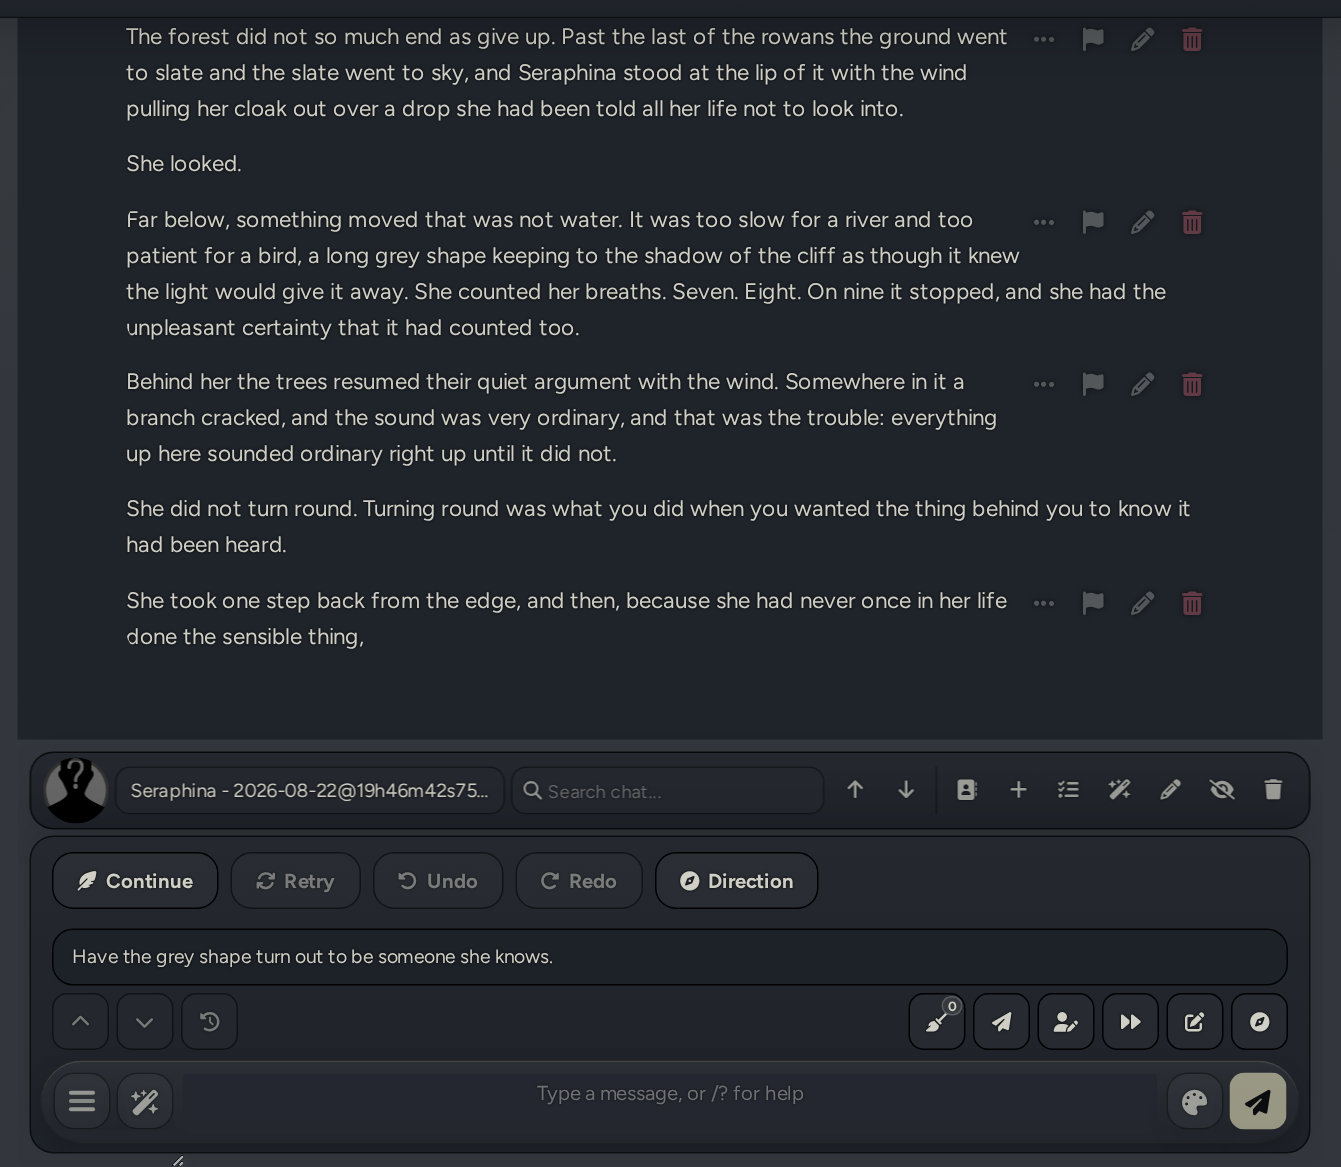
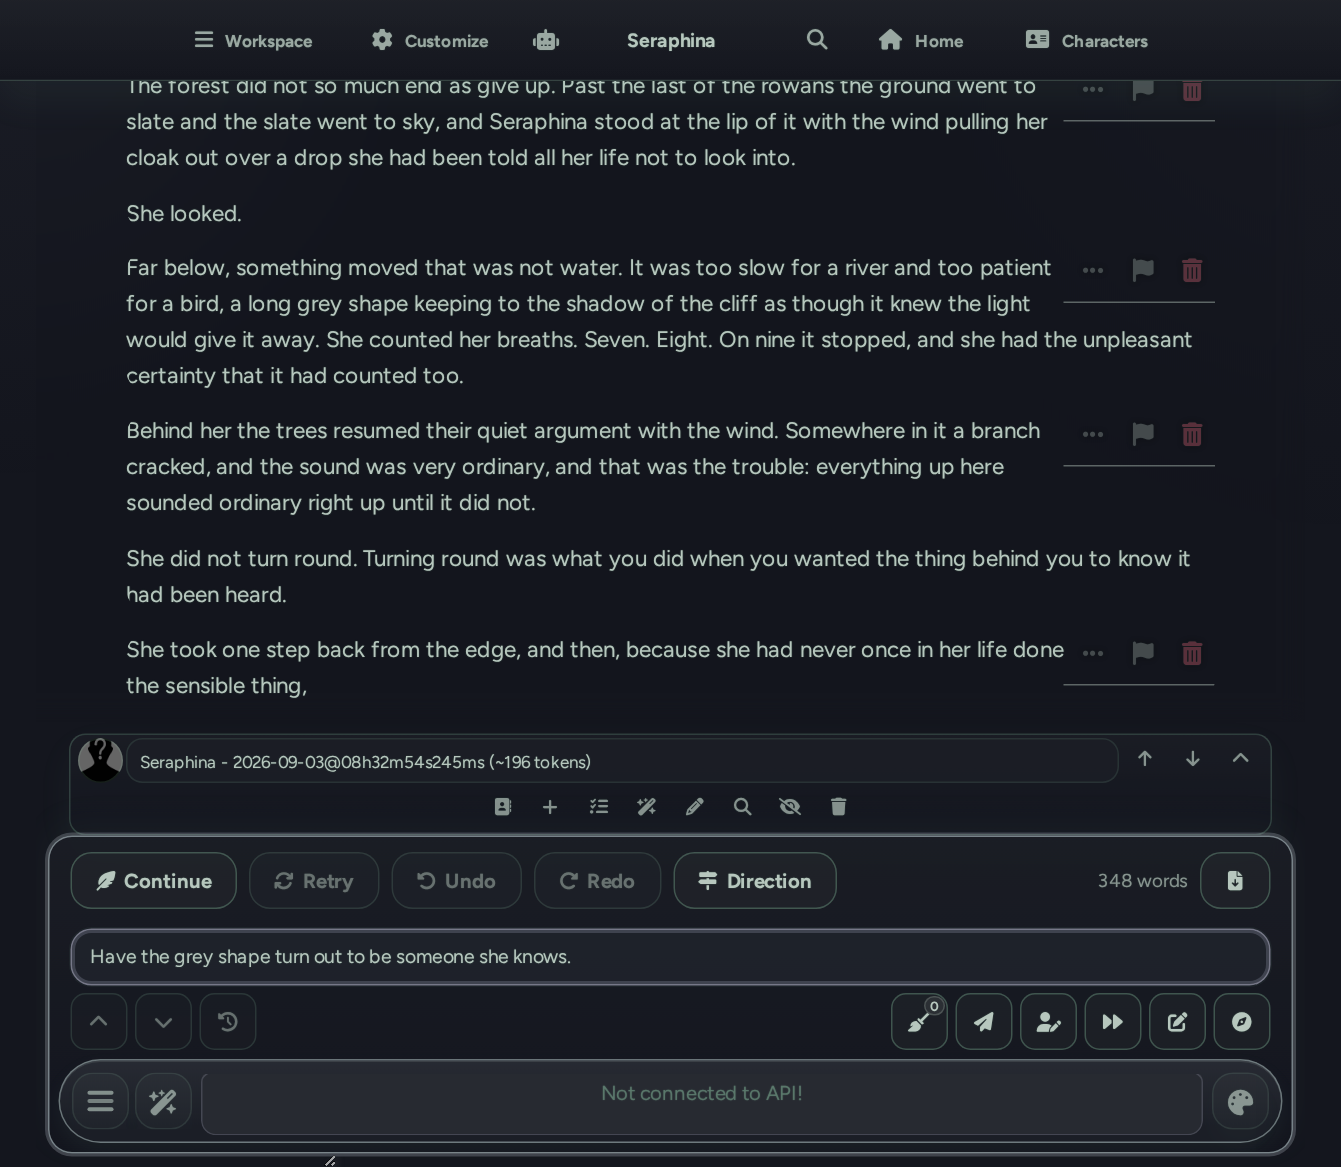
Story Mode 0.2.1: clearer bar, one-row phone bar, grouped settings
Direction gets a signpost icon (the host already uses a compass one row
below) and stays tinted while a direction is typed with the box closed.
Export is icon-only; on phones the word count and Export leave the bar
so it stays one row, and the other buttons shrink to icons below 44em.

The host's pencil is hidden in Story Mode because tapping a paragraph
already edits it. With "Expand message actions" on, the icon row sits on
its own line above each paragraph instead of swallowing the first one.
The rewrite row no longer overlaps the textarea when editing the last
block at the bottom of the chat.

Settings are grouped into the card section, Writing, Appearance and
In-Chat Agents; the general rules are labelled unused and dimmed while
the open card carries its own. README and screenshots refreshed.

diff --git a/src/ui.js b/src/ui.js
@@ -102,8 +102,10 @@ export function mountBar() {
             document.getElementById('send_textarea')?.focus();
         }
     });
+    directionInput.addEventListener('input', refreshDirectionToggle);
     directionWrap.append(directionInput);
-    const directionToggle = iconButton({ id: 'sbstory-direction-toggle', icon: 'fa-compass', label: 'Direction', title: 'Tell the model where the next passage should go. Used once.', onClick: toggleDirection });
+    // fa-signs-post, not fa-compass: the host's own action row one line below already uses a compass.
+    const directionToggle = iconButton({ id: 'sbstory-direction-toggle', icon: 'fa-signs-post', label: 'Direction', title: 'Tell the model where the next passage should go. Used once.', onClick: toggleDirection });
     directionToggle.setAttribute('aria-controls', 'sbstory-direction-wrap');
     directionToggle.setAttribute('aria-expanded', 'false');
     wordCount = el('small', { className: 'sbstory-words', attrs: { id: 'sbstory-words', title: 'Words in the manuscript (hidden blocks left out)' } });
@@ -162,14 +164,29 @@ function toggleDirection() {
     }
     directionWrap.hidden = !directionWrap.hidden;
     document.getElementById('sbstory-direction-toggle')?.setAttribute('aria-expanded', String(!directionWrap.hidden));
+    refreshDirectionToggle();
     if (!directionWrap.hidden) {
         directionInput.focus();
     }
 }
 
+/** The toggle lights up while a direction is typed but the panel is closed, so an armed Continue is visible. */
+function refreshDirectionToggle() {
+    const toggle = document.getElementById('sbstory-direction-toggle');
+    if (!toggle || !directionWrap || !directionInput) {
+        return;
+    }
+    const armed = directionWrap.hidden && directionInput.value.trim().length > 0;
+    toggle.toggleAttribute('data-set', armed);
+    toggle.title = armed
+        ? `Next Continue is steered: "${directionInput.value.trim()}"`
+        : 'Tell the model where the next passage should go. Used once.';
+}
+
 export function clearDirectionInput(submitted) {
     if (directionInput && (submitted === undefined || directionInput.value.trim() === submitted)) {
         directionInput.value = '';
+        refreshDirectionToggle();
     }
 }
 
@@ -901,32 +918,23 @@ export function renderDrawer() {
         content.append(section);
     }
 
-    content.append(checkboxRow({
-        id: 'sbstory-opt-shading',
-        label: 'Shade the model\'s text',
-        checked: settings.shading,
-        onChange: (value) => {
-            api.updateSettings({ shading: value });
-            drawerHandlers.onChange?.();
-        },
-    }));
-    content.append(checkboxRow({
-        id: 'sbstory-opt-serif',
-        label: 'Serif font in the manuscript',
-        checked: settings.serif,
-        onChange: (value) => {
-            api.updateSettings({ serif: value });
-            drawerHandlers.onChange?.();
-        },
-    }));
+    // Writing: what the model is told and how much it writes. Grouped so the two rules boxes sit together
+    // and the rewrite option is not orphaned after Agents.
+    content.append(el('h4', { text: 'Writing' }));
 
-    const rules = el('textarea', { className: 'text_pole sbstory-textarea', attrs: { id: 'sbstory-opt-rules', rows: '6' } });
+    // When the open card carries its own rules, the general box is not what the model sees: say so on the label.
+    const cardRulesActive = Boolean(character && (card?.instruction ?? '').trim());
+    const rules = el('textarea', { className: `text_pole sbstory-textarea${cardRulesActive ? ' sbstory-muted' : ''}`, attrs: { id: 'sbstory-opt-rules', rows: '6' } });
     rules.value = settings.rules;
     rules.addEventListener('change', () => {
         api.updateSettings({ rules: rules.value.trim() || DEFAULT_RULES });
         drawerHandlers.onChange?.();
     });
-    const rulesField = field('Rules sent before the block being continued', rules, '{{length}} becomes the length hint; {{user}} is the usual macro.');
+    const rulesField = field(
+        cardRulesActive ? 'General rules (not used while this card has its own)' : 'Rules sent before the block being continued',
+        rules,
+        '{{length}} becomes the length hint; {{user}} is the usual macro.',
+    );
     const reset = el('button', { className: 'menu_button sbstory-reset', text: 'Reset rules', attrs: { type: 'button' } });
     reset.addEventListener('keydown', (event) => {
         if (event.key === 'Enter') {
@@ -957,6 +965,35 @@ export function renderDrawer() {
         drawerHandlers.onChange?.();
     });
     content.append(field('Longest continuation, in tokens', cap, 'The reply is cut off here, like NovelAI\'s output length; press Continue again to keep going. 0 uses your preset\'s response length.'));
+
+    content.append(checkboxRow({
+        id: 'sbstory-opt-fullctx',
+        label: 'Rewrites see the whole story (slower, costs more, matches voice better)',
+        checked: settings.transformsUseFullContext,
+        onChange: (value) => {
+            api.updateSettings({ transformsUseFullContext: value });
+        },
+    }));
+
+    content.append(el('h4', { text: 'Appearance' }));
+    content.append(checkboxRow({
+        id: 'sbstory-opt-shading',
+        label: 'Shade the model\'s text',
+        checked: settings.shading,
+        onChange: (value) => {
+            api.updateSettings({ shading: value });
+            drawerHandlers.onChange?.();
+        },
+    }));
+    content.append(checkboxRow({
+        id: 'sbstory-opt-serif',
+        label: 'Serif font in the manuscript',
+        checked: settings.serif,
+        onChange: (value) => {
+            api.updateSettings({ serif: value });
+            drawerHandlers.onChange?.();
+        },
+    }));
 
     const agentSection = el('div');
     agentSection.append(el('h4', { text: 'In-Chat Agents' }));
@@ -999,15 +1036,6 @@ export function renderDrawer() {
         }
     }
     content.append(agentSection);
-
-    content.append(checkboxRow({
-        id: 'sbstory-opt-fullctx',
-        label: 'Rewrites see the whole story (slower, costs more, matches voice better)',
-        checked: settings.transformsUseFullContext,
-        onChange: (value) => {
-            api.updateSettings({ transformsUseFullContext: value });
-        },
-    }));
 }
 
 // ---------------------------------------------------------------- mode application / teardown

diff --git a/style.css b/style.css
@@ -3,6 +3,12 @@
    and the bundled mobile paper theme (≤768px) forces bubbles on `.mes` with !important,
    so the reskin mirrors that specificity and relies on loading later. */
 
+body.sbstory {
+    /* Height of the rewrite row (8px margin, 4px padding twice, one control) plus its 4px sticky offset
+       and a little air: the space kept clear under an edit box so the row can sit there. */
+    --sbstory-row-slot: calc(var(--sb-control-min-height, 38px) + 28px);
+}
+
 /* ---------------------------------------------------------------- story bar (above the composer) */
 
 /* The bar states its own width: themes turn #send_form into a centred column (Moonlit Echoes with
@@ -29,11 +35,35 @@
     white-space: nowrap;
 }
 
-/* Narrow bar (phones, a narrow chat pane): Continue keeps its label, the history buttons go icon-only. */
-@container (width < 36em) {
+/* The bar must stay one row: every extra row comes out of the manuscript. The labelled row measures
+   about 43em at the bar's own font size, so the history buttons go icon-only below 44em (a narrow
+   chat pane, a tablet in portrait); Continue keeps its label because a feather alone says nothing. */
+@container (width < 44em) {
     #sbstory-bar .sbstory-btn:not(#sbstory-continue) .sbstory-btn-label {
         display: none;
     }
+}
+
+/* Phones: Continue plus the four icon buttons fill about 22em, and the count and Export need
+   another 8em that a 390px screen does not have. Both go; the count is decoration and Export is
+   a desktop chore. ponytail: add `/story export` if anyone wants the file on a phone. */
+@container (width < 33em) {
+    #sbstory-bar .sbstory-words,
+    #sbstory-bar #sbstory-export {
+        display: none;
+    }
+}
+
+/* Export is a once-a-session action; icon-only at every width keeps the bar to one row. */
+#sbstory-bar #sbstory-export .sbstory-btn-label {
+    display: none;
+}
+
+/* A typed direction with the panel closed: the toggle takes the same tint as the wand's On pill,
+   so an armed Continue is visible without opening the panel. */
+#sbstory-bar #sbstory-direction-toggle[data-set] {
+    background-color: color-mix(in srgb, var(--SmartThemeQuoteColor) 14%, transparent);
+    border-color: color-mix(in srgb, var(--SmartThemeQuoteColor) 45%, transparent);
 }
 
 /* Word count and Export sit at the far end of the button row. */
@@ -96,6 +126,13 @@ body.sbstory #chat .mes:not(.smallSysMes):not(.last_mes) .swipeRightBlock {
     display: none !important;
 }
 
+/* Tapping the text already opens the editor, so the pencil is dead weight on the opening line
+   (on a phone the four icons took ~40% of it). The host binds its click handler on `document`,
+   so the extension's programmatic `.mes_edit.click()` still works while it is hidden. */
+body.sbstory #chat .mes:not(.smallSysMes) .mes_buttons .mes_edit {
+    display: none !important;
+}
+
 body.sbstory #chat .mes:not(.smallSysMes) .mes_block {
     display: flow-root !important;
     margin: 0 !important;
@@ -124,6 +161,14 @@ body.sbstory #chat .mes:not(.smallSysMes) .ch_name {
     border: 0 !important;
     box-shadow: none !important;
     justify-content: flex-end;
+}
+
+/* With the host's "Expand message actions" on, the row is a dozen icons wide and would swallow
+   two-thirds of the opening line (clicks there hit the icon strip, not the prose), so it gets
+   its own line above the paragraph instead. */
+body.sbstory.expandMessageActions #chat .mes:not(.smallSysMes) .ch_name {
+    float: none;
+    width: 100% !important;
 }
 
 /* The text sits directly on the theme's chat background: the Echo/Whisper/... chat styles paint
@@ -221,6 +266,16 @@ body.sbstory #chat .mes .edit_textarea {
     line-height: 1.6 !important;
     color: inherit !important;
     caret-color: var(--color-primary, var(--sb-accent, currentColor));
+    /* revealEditor() scrolls the box to the chat's bottom edge; keep the rewrite row's slot clear
+       under it, or the row sticks up over a short box the moment text is selected. */
+    scroll-margin-bottom: var(--sbstory-row-slot);
+}
+
+/* The slot only exists if there is something to scroll into: while the last block is being edited
+   nothing follows it, so the block itself carries the room. The host's textarea id lifts this above
+   the manuscript padding rule (both !important). */
+body.sbstory #chat .mes.last_mes:has(#curEditTextarea) {
+    padding-bottom: var(--sbstory-row-slot) !important;
 }
 
 body.sbstory #chat .mes .edit_textarea:focus-visible {
@@ -279,6 +334,15 @@ body.sbstory #chat .mes .edit_textarea:focus-visible {
 #sbstory-settings .sbstory-textarea {
     min-height: 90px;
     resize: vertical;
+}
+
+/* General rules while the open card has its own: still editable, visibly not the live set. */
+#sbstory-settings .sbstory-muted {
+    opacity: 0.6;
+}
+
+#sbstory-settings .sbstory-muted:focus {
+    opacity: 1;
 }
 
 /* The Customize panel forces .menu_button labels to wrap; outrank it so "Reset rules" stays on one line. */

diff --git a/README.md b/README.md
@@ -33,15 +33,15 @@ Story Mode is a per-chat mode. Switched on, the chat stops being a row of speech
 
 **Continue.** The button above the composer. With text in the box, that text goes in as the next block and the model continues from the end of it; with the box empty, the model extends the last paragraph. Both go through SillyBunny's own Continue, so with Claude and 'Continue prefill' on, a model block is handed back as a prefill and continuations pick up mid-word. The token limit applies only to Story Mode's own continuations, never to the normal send button; press Continue again to keep going.
 
-**Retry, Undo, Redo.** Retry redoes the last continuation, Undo removes it, Redo puts it back. If the last block came from the normal send button, Retry swipes it and Undo deletes it, which is SillyBunny's usual behaviour. The three buttons are disabled when there is nothing for them to do, so a block the user typed cannot be undone by accident. Retry with a draft sitting in the composer parks the draft, redoes the continuation, then hands the draft back. On a phone, or with a narrow chat pane, the buttons shrink to icons and Continue keeps its label.
+**Retry, Undo, Redo.** Retry redoes the last continuation, Undo removes it, Redo puts it back. If the last block came from the normal send button, Retry swipes it and Undo deletes it, which is SillyBunny's usual behaviour. The three buttons are disabled when there is nothing for them to do, so a block the user typed cannot be undone by accident. Retry with a draft sitting in the composer parks the draft, redoes the continuation, then hands the draft back. On a phone, or with a narrow chat pane, the buttons shrink to icons, Continue keeps its label, and the word count and Export step off the bar so it stays one row.
 
 **Keys.** Alt+Enter continues, Alt+R retries, Alt+Z undoes, Alt+Y redoes; each does exactly what its button does, including nothing while the button is disabled. Bare ArrowLeft and ArrowRight, which swipe the last block in a normal chat, do nothing while Story Mode is on. The host's other shortcuts (Ctrl+Enter, ArrowUp to edit) are untouched.
 
-**Export and word count.** Export downloads the whole manuscript as `<character> - <date>.txt`: plain text, no `Name:` prefixes, hidden blocks skipped, a block that stopped mid-sentence joined to the next with a space and everything else separated by a blank line. The number beside it is the manuscript's word count, refreshed whenever the chat changes; tokens with no letters or digits (`* * *`, `--`) are not counted.
+**Export and word count.** The download arrow at the right end of the bar saves the whole manuscript as `<character> - <date>.txt`: plain text, no `Name:` prefixes, hidden blocks skipped, a block that stopped mid-sentence joined to the next with a space and everything else separated by a blank line. The number beside it is the manuscript's word count, refreshed whenever the chat changes; tokens with no letters or digits (`* * *`, `--`) are not counted. Both stay off the bar on a phone.
 
-**Direction.** Opens a one-line box. Whatever is typed there is sent for the next continuation only ('Have the stranger turn out to be her brother'), then cleared. Enter in the box continues; Escape closes it.
+**Direction.** The signpost button opens a one-line box. Whatever is typed there is sent for the next continuation only ('Have the stranger turn out to be her brother'), then cleared. Enter in the box continues; Escape closes it. Close the box with a direction still in it and the button stays tinted, so it is plain that the next Continue is steered.
 
-**Editing.** Tapping a paragraph opens SillyBunny's message editor for that block. The host normally discards an edit on Escape; in Story Mode Escape keeps it, as does the tick. Tapping another paragraph saves the open one first.
+**Editing.** Tapping a paragraph opens SillyBunny's message editor for that block, so the host's pencil icon is hidden; the flag and the bin stay. The host normally discards an edit on Escape; in Story Mode Escape keeps it, as does the tick. Tapping another paragraph saves the open one first. With the host's 'Expand message actions' setting on, the icon row is a dozen icons wide, so it gets its own line above each paragraph instead of sitting beside the first one.
 
 **Rewriting a selection.** While a paragraph is open for editing, selecting text shows a row under the box: Rewrite, Expand, Compress, Custom. The row stays on screen while a long paragraph scrolls. The result replaces the selection and stays selected, so another pass can be run on it straight away. Nothing is saved until the editor is closed, unless SillyBunny's message-edit auto-save setting is on, and the row says when the browser added the change to Ctrl+Z history. By default the model sees the selection and a couple of paragraphs either side; a setting sends the whole story instead for a closer match to the voice.
 
@@ -92,7 +92,7 @@ For an ensemble, put a 'Narrator' card (world and style) and one card per lead i
 
 ## Settings
 
-Customize › Extensions › Story Mode: the per-chat switch, the start-in-Story-Mode default, the open card's own switch and rules, shading (off by default), serif font, the rules text (with a reset), the length hint, the token limit per continuation, which In-Chat Agents may run while Story Mode is on, and whether rewrites see the whole story.
+Customize › Extensions › Story Mode, in four groups: the switches (per chat, the start-in-Story-Mode default, and the open card's own switch and rules); Writing (the rules text with a reset, the length hint, the token limit per continuation, and whether rewrites see the whole story); Appearance (shading, off by default, and the serif font); and which In-Chat Agents may run while Story Mode is on. While the open card carries its own rules, the general rules are labelled as unused and dimmed, so there is no guessing which set the model gets.
 
 ## Install
 
